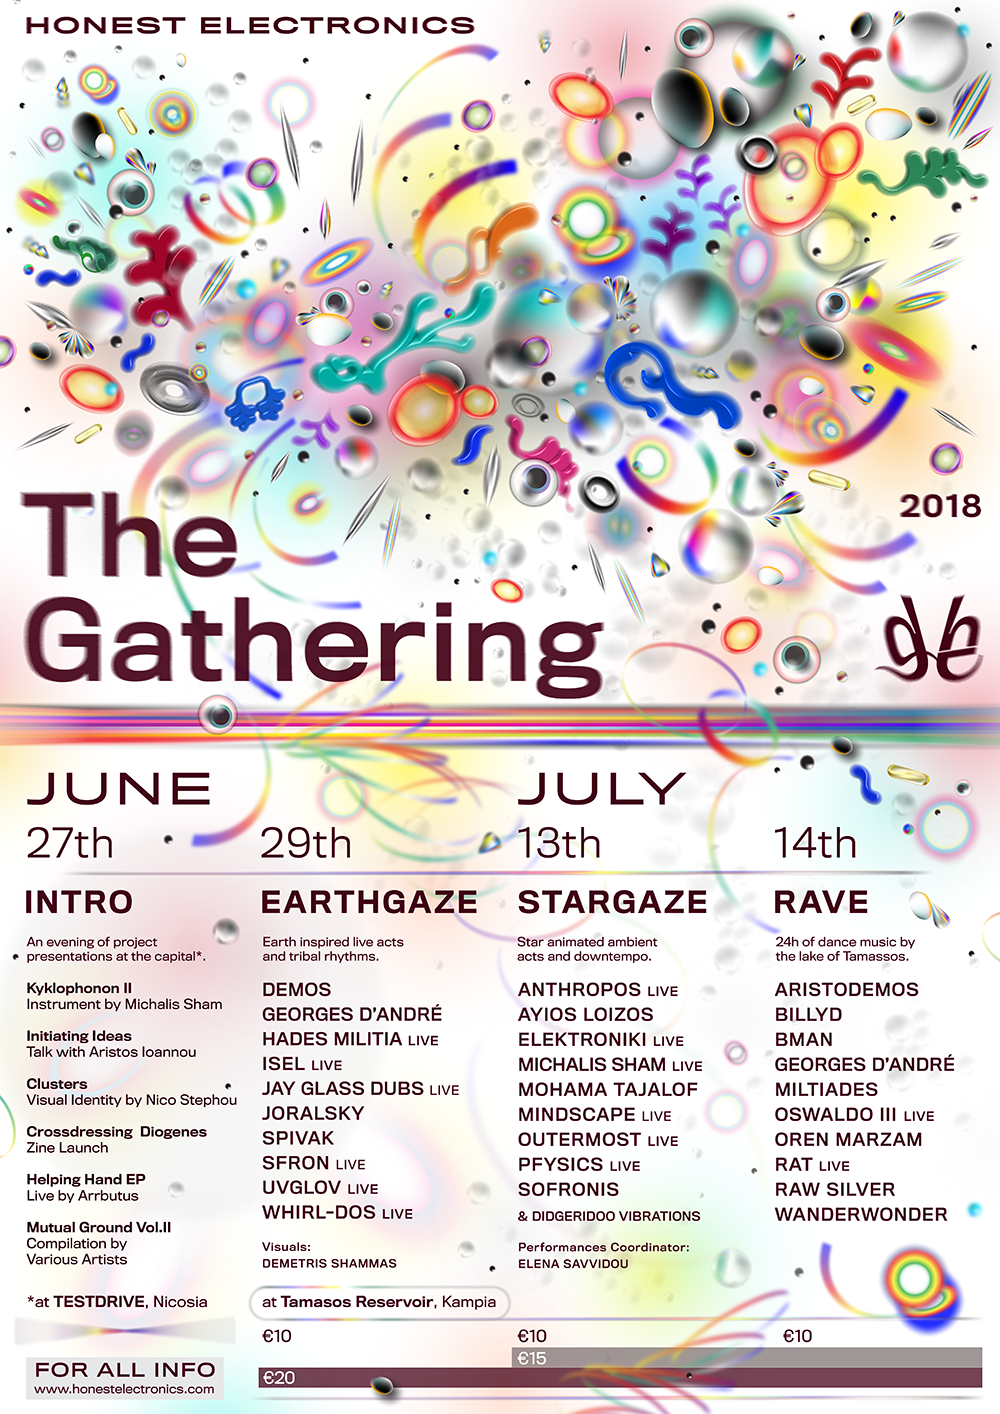
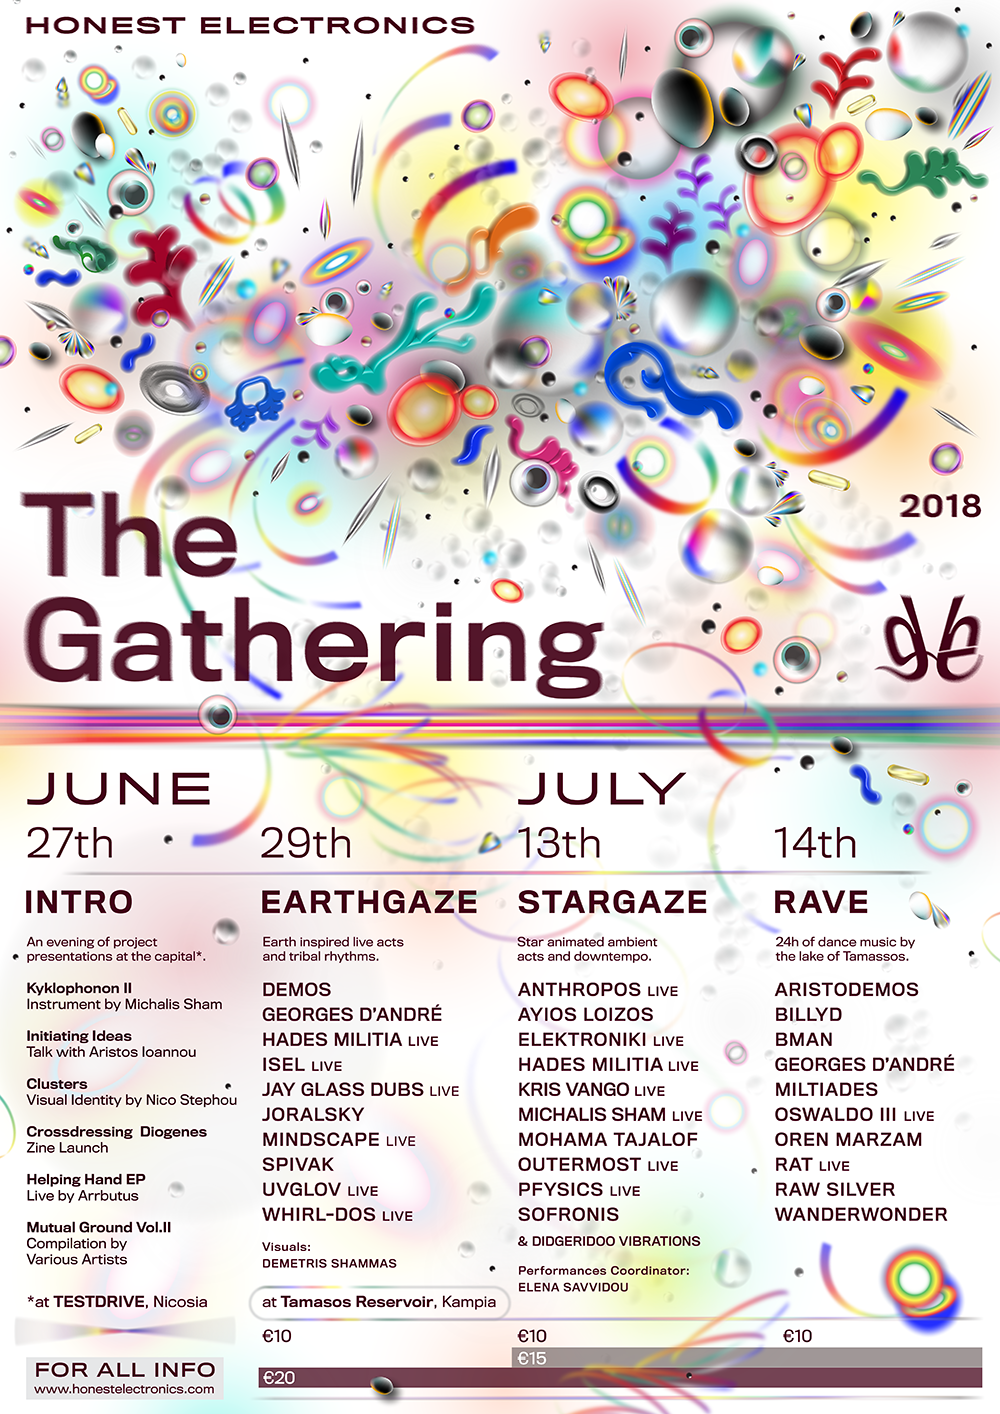
up

diff --git a/festival.html b/festival.html
@@ -103,9 +103,9 @@
 🔵 isel (LIVE)<br>
 🔵 Joralsky<br>
 🔵 spivak<br>
+🔵 Hibiscus<br>
 🔵 Whirl-DOS (LIVE)<br>
-⚫ uvglove (LIVE)<br>
-⚫ Sfron (LIVE)</p>
+⚫ UVLGLOV (LIVE)<br>
 
 <p>🔴 International Guest<br>
 🔵 Collective<br>
@@ -137,13 +137,13 @@
 <p>STARGAZE is a themed night of ambient and star animated relaxing music. We asked our invited artists to be inspired by what stars means to them.</p>
 
 <p>🔴 Outermost (LIVE)<br>
+🔴 Kris Vango (LIVE)<br>
 🔵 anthropos (LIVE)<br>
 🔵 elektroniki (LIVE)<br>
 🔵 Michalis Sham<br>
 🔵 mindscape (LIVE)<br>
 🔵 Mohama Tajalof<br>
 🔵 Pfysics (LIVE)<br>
-🔵 Whirl-DOS (LIVE)<br>
 ⚫ Ayios Loizos<br>
 ⚫ Sofronis<br>
 ⚫ Didgeridoo Meditation </p>
